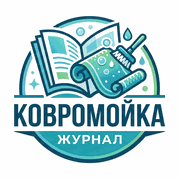
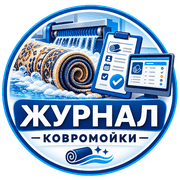
Новый логотип: перенарезаны иконки PWA
Иконки собраны из docx/NEW LOGO.png — те же четыре размера: обычные
192 и 512, maskable под маску Android (логотип на 80% площади) и
apple-touch-icon 180 без прозрачности.

Логотип круглый и фотографичный, поэтому в 256 цветов палитры он
укладывается хуже прежнего плоского: оболочка в precache выросла с
~330 до 478 КиБ. Резать палитру дальше не стал — на градиентах пены
пошли бы полосы.

Прежний исходник docx/1787488604349.png оставлен: он больше никуда
не ведёт, но и не мешает.

diff --git a/README.md b/README.md
@@ -124,7 +124,7 @@ Frontend ожидает backend по адресу `http://localhost:8000`.
 
 - `frontend/vite.config.ts` — плагин `vite-plugin-pwa`: манифест и настройки Workbox.
 - `frontend/src/PwaUpdate.tsx` — полоска «Нет сети» и предложение поставить новую версию.
-- `frontend/public/` — иконки, нарезанные из логотипа `docx/1787488604349.png`:
+- `frontend/public/` — иконки, нарезанные из логотипа `docx/NEW LOGO.png`:
   - `pwa-192x192.png`, `pwa-512x512.png` — обычные;
   - `pwa-maskable-512x512.png` — под маску Android, значимое в центральных 80%;
   - `apple-touch-icon.png` (180×180) — для iOS, без прозрачности.
